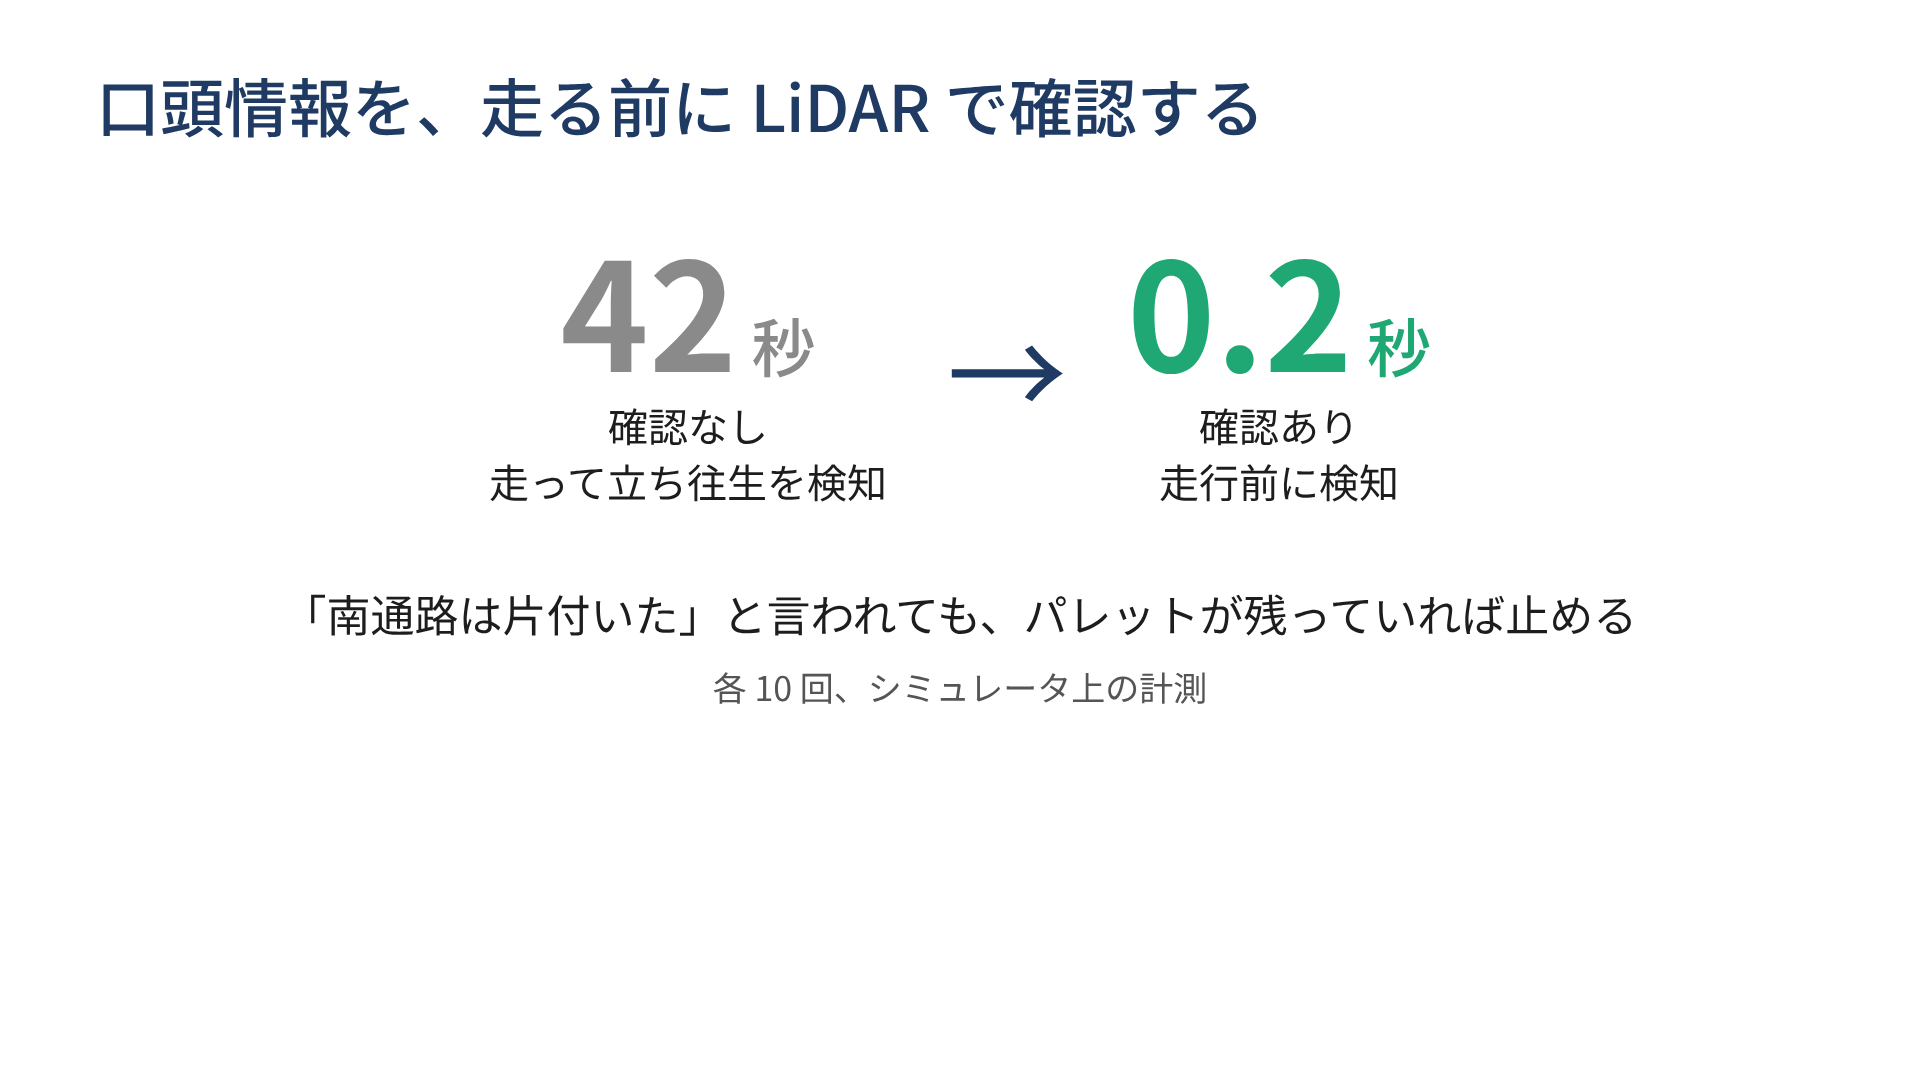
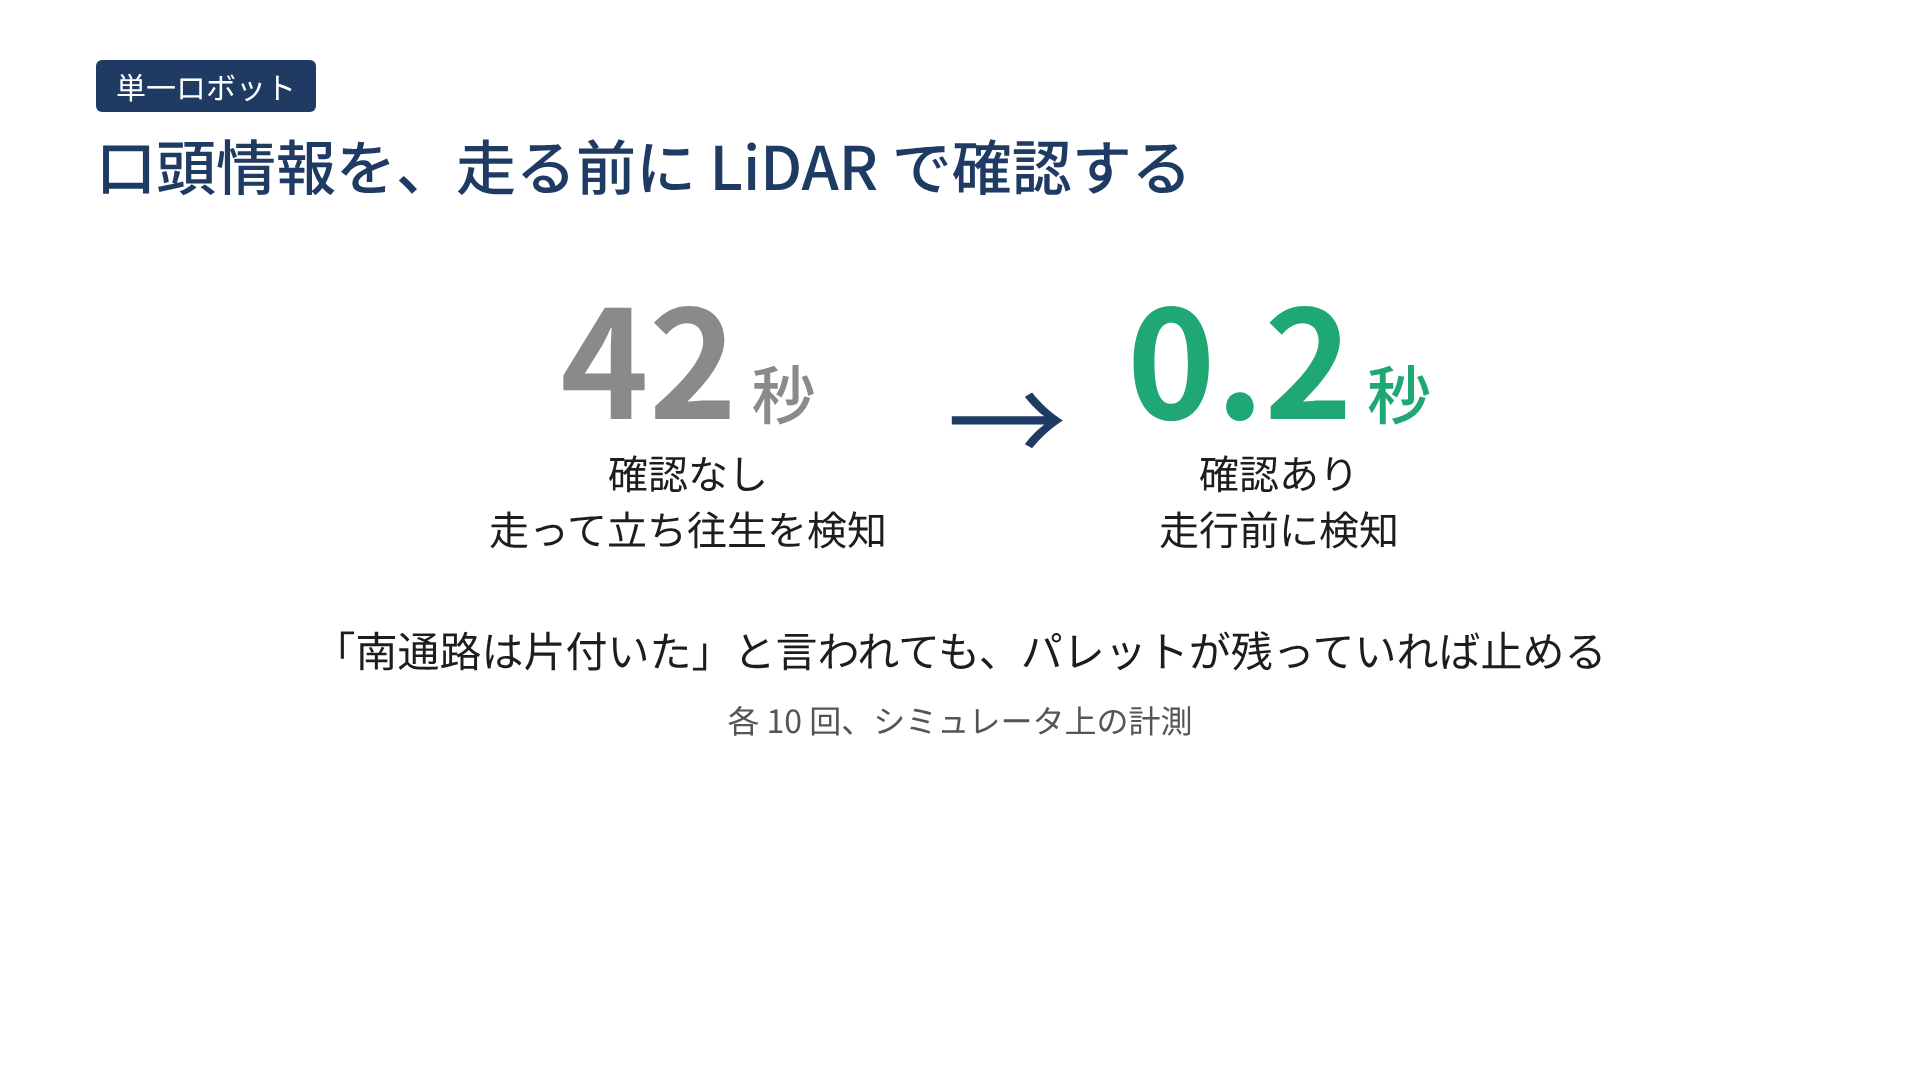
動画: 複数台の検証を含む構成に更新(収録手順の場面 7、画像 04・06〜10・05b)
Claude-Session: https://claude.ai/code/session_01XXRvrW4CqHyFHBMq6pLjo3

diff --git a/host/analyze_multi.py b/host/analyze_multi.py
@@ -106,7 +106,8 @@ def table(res, scn):
 
 
 def main():
-    stems = sorted(os.path.basename(p)[:-4] for p in (glob.glob(os.path.join(OUT, 'C*.csv')) + glob.glob(os.path.join(OUT, 'N*.csv'))))
+    stems = sorted(os.path.basename(p)[:-4] for p in (glob.glob(os.path.join(OUT, 'C*.csv')) + glob.glob(os.path.join(OUT, 'N*.csv')))
+                   if '_video' not in os.path.basename(p))     # 動画の収録用(MULTI_SUFFIX=_video)は集計に含めない
     groups = {}
     for stem in stems:
         cond, scn, _ = parse(stem)

diff --git a/docs/動画収録手順.md b/docs/動画収録手順.md
@@ -32,14 +32,14 @@
 
 ## 2. 場面ごとの操作
 
-### 場面 2(0:10–0:30)通常搬送と到着予測
+### 場面 2(0:08–0:20)通常搬送と到着予測
 | 場所 | 操作 |
 |---|---|
 | 【Mac-指示】 | `python llm_commander.py` |
 | 【Mac-指示】 | `> 出荷口へ行って` |
 | 画面 | 「到着予測: 約 N 秒」→ 到着(status: done)→「到着時間: 予測 … / 実測 … (誤差 …)」。ここを 2 倍速にして、画像 05 を重ねる |
 
-### 場面 3(0:30–1:05)荷物搬送(指差し + 言葉)
+### 場面 3(0:20–0:42)荷物搬送(指差し + 言葉)
 | 場所 | 操作 |
 |---|---|
 | 【Mac-指差し】 | `cd ~/Desktop/pai_final/host && source .venv/bin/activate && python pointing_cam.py`(黒い画面に手の骨格だけが出る。小窓で映す) |
@@ -48,7 +48,7 @@
 | 手 | 中央の荷物の方向を、人差し指で 1 秒指す →「SELECTED: …」→「指示を続けます」と出て走り出す |
 | 画面 | 荷物の前で積載(箱が消える)→ 出荷口で荷降ろし(箱が出荷口の前に出る) |
 
-### 場面 4(1:05–1:50)迂回(荷物を積んだまま)
+### 場面 4(0:42–1:12)迂回(荷物を積んだまま)
 | 場所 | 操作 |
 |---|---|
 | 【Mac-指示】 | `python llm_commander.py --cargo`(リセット後) |
@@ -56,7 +56,7 @@
 | 【Mac-操作】 | 「loaded 南の荷物」が出たら、ロボットが x=3.0 に着く前に `./ros_exec.sh ros2 run ai_nav obstacle place south_aisle` |
 | 画面 | 停止 → blocked(南通路)→ LLM の案・検証・差し戻し → 中央通路経由 → 出荷口で unloaded。2 倍速、画像 02 を前に 3〜4 秒、画像 05 を重ねる |
 
-### 場面 5(1:50–2:15)口頭解除と LiDAR 確認
+### 場面 5(1:12–1:28)口頭解除と LiDAR 確認
 | 場所 | 操作 |
 |---|---|
 | 【Mac-操作】 | `./ros_exec.sh ros2 run ai_nav obstacle place south_aisle`(パレットを置く。コマンダーは先に起動しておく) |
@@ -65,7 +65,7 @@
 | 【Mac-指示】 | `> 南通路は片付いた。出荷口へ行って` |
 | 画面 | パレットが残っているので、走行前に blocked(約 0.2 秒)→ 中央通路経由で到着。続けて画像 03 |
 
-### 場面 6(2:15–2:25)非常停止(手元のみ映す)
+### 場面 6(1:28–1:34)非常停止(手元のみ映す)
 | 場所 | 操作 |
 |---|---|
 | 【Mac-指差し】 | `Ctrl+C`(カメラを使う指差しを止める) |
@@ -73,11 +73,42 @@
 | 【Mac-指示】 | `> 出荷口へ行って`(走り出したら、握りこぶしを見せる) |
 | 画面 | EMERGENCY STOP が出てロボットが止まる。映すのは手元とターミナルだけ |
 
+### 場面 7(1:48–2:13)2 台の正面すれ違い(複数台の検証)
+単一の場面とは別のコンテナ(multi 用)を使う。**単一用のコンテナは止めてから**行う。録画用の試行は `MULTI_SUFFIX=_video` で別ファイルに記録し、検証データ・集計には混ぜない。
+
+| 場所 | 操作 |
+|---|---|
+| 【Mac-操作】 | `cd ~/Desktop/pai_final/docker && docker compose stop`(単一用を止める) |
+| 【Mac-指示】 | `cd ~/Desktop/pai_final/host && MULTI_SUFFIX=_video N=3 ./run_multi_auto.sh C0,C3`(シミュレータの再起動から自動。C0 #1 → C3 #1 → C0 #2 … の順に交互に走る) |
+| ブラウザ | 「起動完了」が出たら http://localhost:6081 を開き、ターミナルで `ign gazebo -g`(2 台の画面) |
+| 画面 | C0(協調なし): 2 台が南通路に入り、行き違えずに止まる・押し戻される様子。C3(機体間通信): ターミナルに r2 の `avoid=(,south_aisle)` が出て、r2 が中央通路を通り、2 台とも約 34 秒で到着 |
+| 選ぶテイク | #2・#3 を使う(#1 は画面を開く前に始まることがある)。C0 は膠着した回を、C3 は通常の回を選ぶ |
+
+編集: C0 を 4 倍速で約 12 秒(画像 05b を重ねる)→ C3 を 2 倍速で約 12 秒(画像 05 を重ねる)の順につなぐ。画面の上に「協調なし」「機体間通信」の文字を入れる。
+終了後: `cd ~/Desktop/pai_final/docker && COMPOSE_FILE=compose.multi.yaml docker compose stop`。収録用の `docs/multi/C0_video.csv`・`C3_video.csv` は git に入れない(削除してよい)。
+
 ## 3. 編集と書き出し(iMovie など)
-1. 場面 2・4 を 2 倍速にし、画像 05(`docs/video_assets/05_倍速表示.png`)を重ねる。
-2. 場面 1・5 の後・7 に画像 01・03・04 を入れる。迂回の前に 02 を 3〜4 秒。
-3. 書き出し: 1080p の MP4、長さ 3:00 以内。
-4. 確認: 顔・氏名・メール・ユーザー名・個人のフォルダ名が映っていない。倍速の表示がある。
+
+| 時間 | 内容 | 素材 |
+|---|---|---|
+| 0:00–0:08 | 課題と狙い | 画像 01 |
+| 0:08–0:20 | 通常搬送と到着予測 | 場面 2(2 倍速、画像 05) |
+| 0:20–0:42 | 荷物搬送(指差し + 言葉) | 場面 3 |
+| 0:42–1:12 | 迂回 | 画像 02(3 秒)→ 場面 4(2 倍速、画像 05) |
+| 1:12–1:28 | 口頭解除と LiDAR 確認 | 場面 5 → 画像 03 |
+| 1:28–1:34 | 非常停止 | 場面 6 |
+| 1:34–1:42 | 単一ロボットの要点 | 画像 04 |
+| 1:42–1:48 | 複数台の検証の設定 | 画像 06 |
+| 1:48–2:13 | 2 台の正面すれ違い | 場面 7(C0 4 倍速 + 画像 05b → C3 2 倍速 + 画像 05) |
+| 2:13–2:21 | 複数台の結果 | 画像 07 |
+| 2:21–2:29 | 通信の中身と、届かない場合 | 画像 08 |
+| 2:29–2:38 | 単一で効いた規則が裏目に出た点 | 画像 09 |
+| 2:38–2:52 | まとめ | 画像 10 |
+
+1. 倍速の区間には、画像 05(2 倍速)・05b(4 倍速)を重ねる。
+2. 書き出し: 1080p の MP4、長さ 3:00 以内(目安 2:52)。尺が超える場合は、場面 3 と画像 08 を短くする。
+3. 確認: 顔・氏名・メール・ユーザー名・個人のフォルダ名が映っていない。倍速の表示がある。
+4. 画像は `docs/video_assets/`(1920×1080)。報告書と同じ図・数字から作った(生成スクリプトは報告書の作成環境にあり、リポジトリには含めない)。
 
 ## 4. YouTube
-タイトル `PAI最終課題_okada198803`、公開、子ども向け・年齢制限は「いいえ」、プレミア公開なし。概要欄: 「一部の場面は 2 倍速です。」と GitHub の URL。採点が完了するまで削除・非公開にしない。
+タイトル `PAI最終課題_okada198803`、公開、子ども向け・年齢制限は「いいえ」、プレミア公開なし。概要欄: 「一部の場面は 2 倍速・4 倍速です。」と GitHub の URL。採点が完了するまで削除・非公開にしない。
